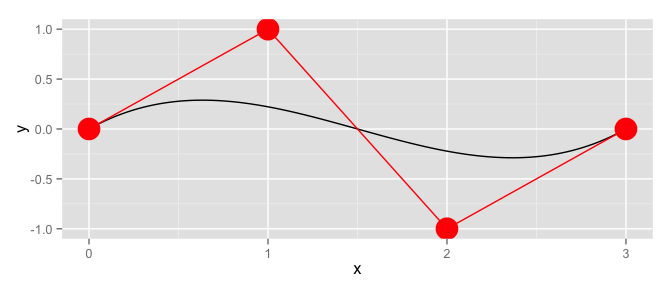
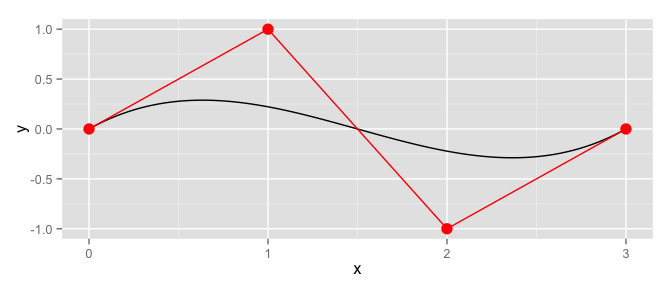
readme: bezier update

diff --git a/README.md b/README.md
@@ -249,7 +249,7 @@ df <- as.data.frame(df)
 names(df) <- c("x", "y")
 qplot(x, y, data = df, geom = "line") +
   geom_line(data = points, color = "red") +
-  geom_point(data = points, color = "red", size = 8)
+  geom_point(data = points, color = "red", size = 4)
 ```
 
 ![](README-unnamed-chunk-15-1.png)
@@ -266,7 +266,7 @@ df$y <- with(df, -x^2 + 2*x - 3 + rnorm(n, 0, 2))
 
 mod <- lm(y ~ x + I(x^2), data = df)
 (p <- round(as.mpoly(mod)))
-#> 2.036 x  -  0.954 x^2  -  3.309
+#> 1.913 x  -  1.003 x^2  -  3.056
 qplot(x, y, data = df) +
   stat_function(fun = as.function(p), colour = 'red')
 #> f(x)
